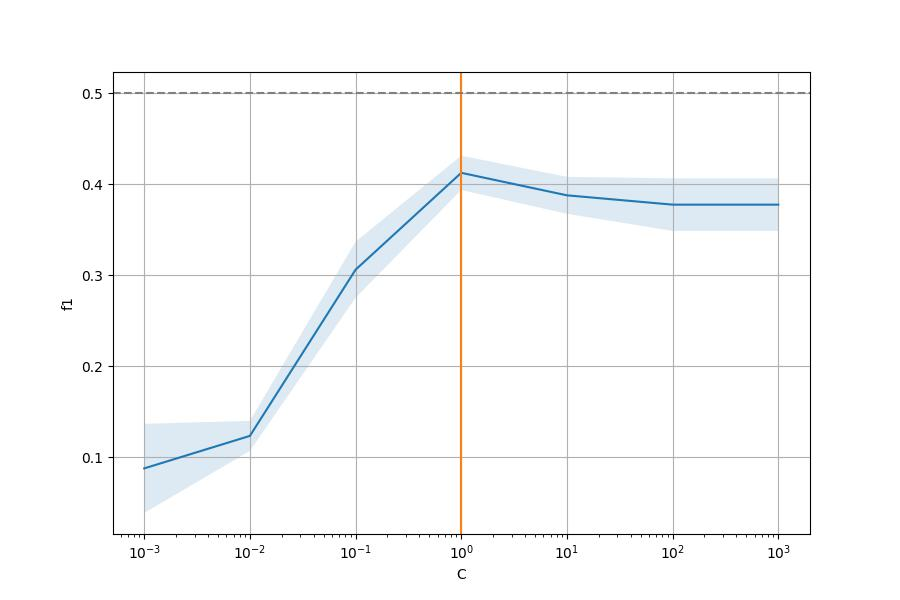
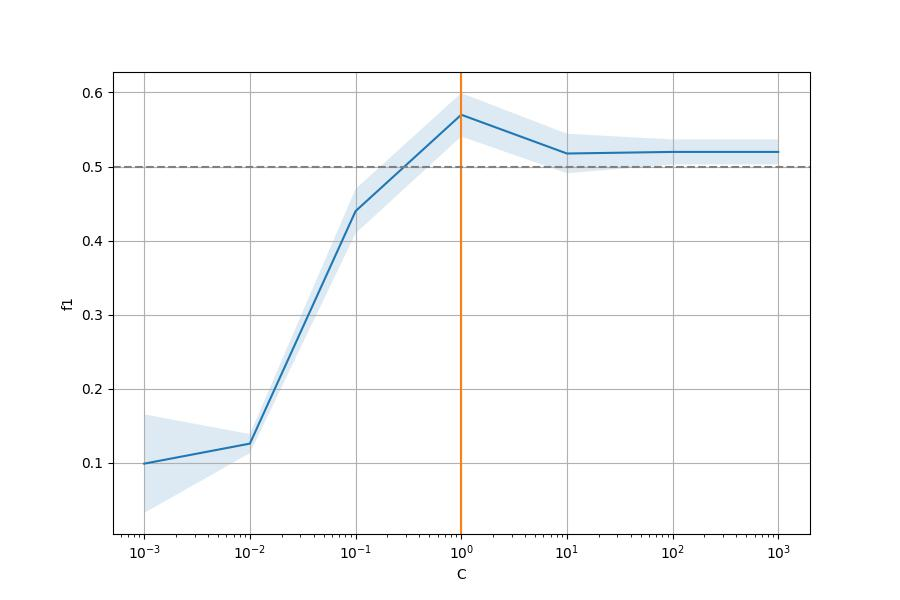
update test slice sampling

diff --git a/analysis/utilities/m_prepare_biomedparse_TumorSegmentation_dataset.py b/analysis/utilities/m_prepare_biomedparse_TumorSegmentation_dataset.py
@@ -186,7 +186,30 @@ def convert_nifti_to_png(img_path, lab_path, output_img_dir, output_msk_dir, pre
     else:
         raise ValueError("Unsupported or unknown scanning phase")
 
-    return img_slices
+    # Separate tumor and background slices
+    tumor_slices = [x for x in img_slices if x['class'] == 'tumor']
+    background_slices = [x for x in img_slices if x['class'] == 'background']
+
+    # Count how many we have
+    num_tumor = len(tumor_slices)
+    num_background = len(background_slices)
+
+    # Determine how many background slices to keep
+    if num_tumor > 0:
+        num_to_sample = min(num_tumor, num_background)
+    else:
+        num_to_sample = min(20, num_background)
+
+    # Randomly sample background slices
+    selected_background = random.sample(background_slices, num_to_sample)
+
+    # Combine the two sets
+    balanced_slices = tumor_slices + selected_background
+
+    print(f"Tumor slices: {num_tumor}, Background slices (sampled): {num_to_sample}")
+    print(f"Total balanced slices: {len(balanced_slices)}")
+
+    return balanced_slices
 
 def split_list(data, train_ratio=0.8, seed=42):
     random.seed(seed)
@@ -309,7 +332,17 @@ if __name__ == "__main__":
         all_slices = []
         for o in outputs: all_slices += o
         df = pd.DataFrame(all_slices)
+        df = df.sort_values(by='slice_name', ascending=True).reset_index(drop=True)
+
         df.to_csv(f'{output_dir}/{output_dataset}/test_slices.csv')
+
+        src = pathlib.Path(f'{output_dir}/{output_dataset}/test_slices.csv')
+        dst_folder = pathlib.Path(f'/home/sg2162/rds/hpc-work/Experiments/TTA/{output_dataset}')
+        dst_folder.mkdir(parents=True, exist_ok=True)
+        dst = dst_folder / src.name
+        shutil.copy2(src, dst)
+
+        print(f"File copied to: {dst}")
 
 
 
